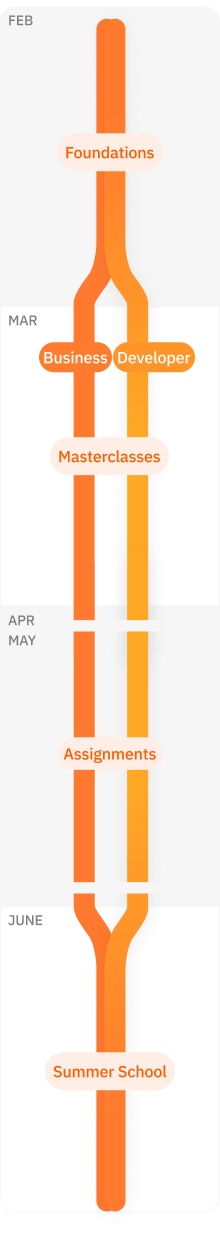
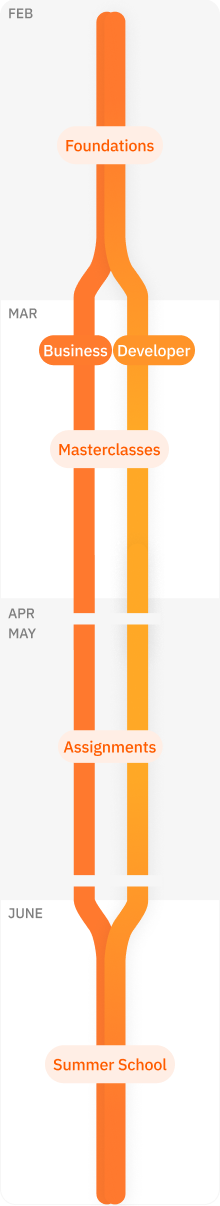
feat: programs page ui update 2

diff --git a/apps/web/src/routes/$lang/_content/programs/index.tsx b/apps/web/src/routes/$lang/_content/programs/index.tsx
@@ -9,6 +9,7 @@ import { createFileRoute, Link } from '@tanstack/react-router';
 import { useContext, useState } from 'react';
 import { useTranslation } from 'react-i18next';
 import { TbChevronDown } from 'react-icons/tb';
+import ReactPlayer from 'react-player';
 import avatarImage from '#src/assets/programs/avatar.png';
 import avatar2Image from '#src/assets/programs/avatar2.png';
 import avatar3Image from '#src/assets/programs/avatar3.png';
@@ -23,9 +24,8 @@ import trackTriangleImage from '#src/assets/programs/track-triangle.png';
 import track1Image from '#src/assets/programs/track1.webp';
 import track2Image from '#src/assets/programs/track2.webp';
 import track3Image from '#src/assets/programs/track3.webp';
-import track4Image from '#src/assets/programs/track4.webp';
-import videoScreenshotImage from '#src/assets/programs/video-screenshot.png';
 import { PageLayout } from '#src/components/page-layout.tsx';
+import { useGreater } from '#src/hooks/use-greater.ts';
 import { useSmaller } from '#src/hooks/use-smaller.ts';
 import { CourseCardBig } from '#src/patterns/course-card-big.tsx';
 import { AppContext } from '#src/providers/context.tsx';
@@ -104,12 +104,12 @@ function ProgramElement({
 }) {
   return (
     <div className="flex flex-row gap-3 items-center">
-      <div className="flex items-center justify-center bg-orange-50 rounded-full p-4">
-        <img className="size-8" src={icon} alt="" />
+      <div className="min-w-12 flex items-center justify-center bg-orange-50 rounded-full">
+        <img className="size-8 m-4" src={icon} alt="" />
       </div>
-      <div>
-        <p className="title-base text-orange-500">{title}</p>
-        <p className="body-base">{description}</p>
+      <div className="w-full">
+        <p className="label-strong md:title-base text-orange-500">{title}</p>
+        <p className="body-small mg:body-base">{description}</p>
       </div>
     </div>
   );
@@ -126,7 +126,7 @@ function TracksAndCalendar() {
           {' '}
           combines theory, real-case practice and networking{' '}
         </span>
-        opportunities. Choose your specialized track.
+        opportunities.
       </p>
 
       <div className="flex flex-row gap-2 mt-10">
@@ -140,7 +140,7 @@ function TracksAndCalendar() {
             location2="Online"
             contentText="The program starts with lectures led by Giacomo Zucco. Thanks to his characteristic style, you will develop in one month a deep understanding of Bitcoin relevancy and implications."
             imageUrl={track1Image}
-            imageClassName="xl:w-[322px]"
+            imageClassName="xl:w-[330px]"
           />
           <CalendarElement
             title="Masterclasses"
@@ -150,7 +150,7 @@ function TracksAndCalendar() {
             location2="Online"
             contentText="The Plan ₿ Program brings together a distinguished group of professors and industry leaders — each an expert in their field. Through live, expert-led sessions, you’ll gain direct access to some of the most influential minds shaping the Bitcoin ecosystem."
             imageUrl={track2Image}
-            imageClassName="xl:w-[322px]"
+            imageClassName="xl:w-[310px]"
           />
           <CalendarElement
             title="Project Assignments"
@@ -159,6 +159,7 @@ function TracksAndCalendar() {
             location1="Online"
             contentText="The best 100 students of each track will be able to choose an assignment associated with either a Bitcoin company or open-source project. This is your chance to be mentored directly by a professional. Assignments are individual work."
             imageUrl={track3Image}
+            imageClassName="xl:w-[360px]"
           />
           <CalendarElement
             title="Summer School"
@@ -166,7 +167,7 @@ function TracksAndCalendar() {
             date="June"
             location1="Lugano, Switzerland"
             contentText="The 21 best-ranked students of each track will be selected to join the Lugano Summer School. This 2-week intensive bootcamp blends expert-led workshops, and practical applications of Bitcoin businesses. Beyond the classroom, it's a career-defining experience, a chance to connect directly with industry leaders, showcase your skills, and open doors to future opportunities."
-            imageUrl={track4Image}
+            videoUrl="https://www.youtube.com/embed/7kaMQsDBlfE"
           />
         </div>
       </div>
@@ -183,6 +184,7 @@ function CalendarElement({
   location2,
   contentText,
   imageUrl,
+  videoUrl,
   imageClassName,
 }: {
   title: string;
@@ -191,9 +193,12 @@ function CalendarElement({
   location1: string;
   location2?: string;
   contentText: string;
-  imageUrl: string;
+  imageUrl?: string;
+  videoUrl?: string;
   imageClassName?: string;
 }) {
+  const isBig = useGreater('xl');
+
   return (
     <div className="flex flex-row">
       <img
@@ -203,16 +208,16 @@ function CalendarElement({
       />
 
       <div className="w-auto bg-orange-50 rounded-xl px-2 pt-3">
-        <div className="flex flex-row justify-between pb-3">
+        <div className="flex flex-col md:flex-row justify-between pb-3">
           <div className="flex flex-col text-orange-500">
-            <p className="title-medium">{title}</p>
+            <p className="title-base md:title-medium">{title}</p>
             <p className="label">{subtitle}</p>
           </div>
-          <div className="flex flex-col body-base text-neutral-500 items-end">
+          <div className="flex flex-row md:flex-col max-md:justify-between max-md:px-2 max-md:mt-2 md:self-center gap-2 body-small md:body-base text-neutral-500 md:items-end">
             <p>{date}</p>
-            <div>
+            <div className="">
               {location2 ? (
-                <span className="border-r border-orange-100 pr-2">
+                <span className="border-r border-neutral-100-100 pr-2">
                   {location2}
                 </span>
               ) : null}
@@ -221,12 +226,38 @@ function CalendarElement({
           </div>
         </div>
         <div className="flex flex-col xl:flex-row bg-white mb-2 p-3 rounded-xl gap-3">
-          <p className="text-orange-800 text-sm">{contentText}</p>
-          <img
-            className={cn(imageClassName, 'object-cover rounded-xl')}
-            src={imageUrl}
-            alt=""
-          />
+          <p className="text-orange-800 body-base md:text-sm">{contentText}</p>
+          {imageUrl ? (
+            <img
+              className={cn(imageClassName, 'object-cover rounded-xl')}
+              src={imageUrl}
+              alt=""
+            />
+          ) : null}
+          {videoUrl ? (
+            isBig ? (
+              <div className={cn(imageClassName)}>
+                <ReactPlayer
+                  height={'180px'}
+                  width={'350px'}
+                  className="mb-2 rounded-lg"
+                  controls={true}
+                  src={videoUrl}
+                />
+              </div>
+            ) : (
+              <div className="relative pt-[56.25%] mt-6">
+                <ReactPlayer
+                  height={'100%'}
+                  width={'100%'}
+                  style={{ left: 0, position: 'absolute', top: 0 }}
+                  className="mb-2 rounded-lg"
+                  controls={true}
+                  src={videoUrl}
+                />
+              </div>
+            )
+          ) : null}
         </div>
       </div>
     </div>
@@ -249,7 +280,7 @@ function ChooseYourTrack() {
     <div>
       <SectionTitle title="Choose your track and enroll" />
 
-      <div className="flex flex-wrap gap-4 lg:gap-8 mt-2 lg:mt-4 px-2 lg:px-6 pb-2 lg:pb-6">
+      <div className="flex flex-wrap gap-4 lg:gap-8 mt-2 lg:mt-4">
         {planbCourses.map((course) => (
           <div key={course.id} className="w-full">
             <CourseCardBig course={course} />
@@ -263,16 +294,18 @@ function ChooseYourTrack() {
 function EarnDiploma() {
   return (
     <div>
-      <div className="flex flex-row">
-        <div className="flex flex-col gap-4">
-          <SectionTitle title="Earn a Bitcoin Diploma trusted by top Bitcoin companies" />
+      <SectionTitle title="Earn a Bitcoin Diploma trusted by top Bitcoin companies" />
+      <div className="flex flex-col md:flex-row mt-6 gap-8 text-lg">
+        <div className="flex flex-col gap-4 md:w-2/3">
           <p>
             The top-performing students selected for the Summer School in Lugano
-            earn an official, physical Plan ₿ Diploma, a distinction that
-            recognizes not only their academic excellence but also their proven,
-            hands-on performance throughout the program. This diploma is a
-            trusted signal of practical skills, professional discipline, and
-            real-world contribution to Bitcoin projects.
+            earn an official, physical Plan ₿ Diploma,{' '}
+            <b>
+              a distinction that recognizes not only their academic excellence
+            </b>{' '}
+            but also their proven, hands-on performance throughout the program.
+            This diploma is a trusted signal of practical skills, professional
+            discipline, and real-world contribution to Bitcoin projects.
           </p>
           <p>
             From last year's cohort of 21 graduates, more than 13 have already
@@ -280,7 +313,7 @@ function EarnDiploma() {
             into their first major step into the industry.
           </p>
         </div>
-        <img className="w-1/2 h-fit self-center" src={diplomaImage} alt="" />
+        <img className="h-fit self-center md:w-1/3" src={diplomaImage} alt="" />
       </div>
     </div>
   );
@@ -290,13 +323,16 @@ function HearStudents() {
   return (
     <div>
       <SectionTitle title="Hear from students who became teachers: Mari and Birk's stories" />
-      <Link
-        to="https://x.com/planb_network/status/1947706959790018860?s=20"
-        target="_blank"
-        rel="noreferrer"
-      >
-        <img className="mt-4" src={videoScreenshotImage} alt="" />
-      </Link>
+      <div className="relative pt-[56.25%] mt-6">
+        <ReactPlayer
+          height={'100%'}
+          width={'100%'}
+          style={{ left: 0, position: 'absolute', top: 0 }}
+          className="mb-2 rounded-lg"
+          controls={true}
+          src={'https://www.youtube.com/embed/50p92rsqAG4'}
+        />
+      </div>
     </div>
   );
 }
@@ -310,7 +346,7 @@ function Feedbacks() {
       <div className="flex flex-col gap-6">
         <SectionTitle title="What students think about the program" />
         <div className={cn(divClassName, 'self-end')}>
-          <p className={cn(commentClassName, 'md:w-[740px] self-end')}>
+          <p className={cn(commentClassName, 'md:max-w-[740px] self-end')}>
             “This experience has been{' '}
             <span className="font-medium">truly transformative</span>. I pushed
             myself in ways I hadn't before — building a real-world proposal,
@@ -324,7 +360,7 @@ function Feedbacks() {
           />
         </div>
         <div className={cn(divClassName, 'self-start')}>
-          <p className={cn(commentClassName, 'md:w-[640px] self-start')}>
+          <p className={cn(commentClassName, 'md:max-w-[640px] self-start')}>
             “Plan ₿ Biz School 2025 has been{' '}
             <span className="font-medium">a mind blowing experience</span>,
             learned a lot. The speakers have been{' '}
@@ -336,7 +372,7 @@ function Feedbacks() {
           <FeedbackUser name="Luis Escobar" imageUrl={avatarImage} />
         </div>
         <div className={cn(divClassName, 'self-end')}>
-          <p className={cn(commentClassName, 'md:w-[740px] self-end')}>
+          <p className={cn(commentClassName, 'md:max-w-[740px] self-end')}>
             “<span className="font-medium">A top-level course</span>, enriched
             by outstanding guest lectures: having the chance to interact
             directly with some of the{' '}
@@ -352,7 +388,7 @@ function Feedbacks() {
           <FeedbackUser name="Beatrice Sofia Fiori" imageUrl={avatarImage} />
         </div>
         <div className={cn(divClassName, 'self-start')}>
-          <p className={cn(commentClassName, 'md:w-[640px] self-start')}>
+          <p className={cn(commentClassName, 'md:max-w-[640px] self-start')}>
             “I just completed Plan ₿ Biz School 2025 and it was truly excellent.
             The course content is well-structured, practical, and taught by true
             industry leaders. Whether you're new to Bitcoin or already in the
@@ -362,7 +398,7 @@ function Feedbacks() {
           <FeedbackUser name="Jose Saenz" imageUrl={avatarImage} />
         </div>
         <div className={cn(divClassName, 'self-end')}>
-          <p className={cn(commentClassName, 'md:w-[740px] self-end')}>
+          <p className={cn(commentClassName, 'md:max--[740px] self-end')}>
             Thanks for{' '}
             <span className="font-medium">
               excellent teachers and content provided
@@ -431,7 +467,9 @@ function FAQ() {
 }
 
 function SectionTitle({ title }: { title: string }) {
-  return <h2 className="title-large mt-9">{title}</h2>;
+  return (
+    <h2 className="display-small md:title-large mt-8 md:mt-14">{title}</h2>
+  );
 }
 
 function FAQQuestion({
@@ -467,7 +505,7 @@ function EnrollNow() {
     <div>
       {!isOpened ? (
         <Button
-          className="justify-self-center mt-6 w-2/5"
+          className="mt-6 mx-auto w-full md:w-2/5"
           onClick={() => {
             setIsOpened(!isOpened);
           }}
@@ -477,7 +515,7 @@ function EnrollNow() {
         </Button>
       ) : null}
       {isOpened ? (
-        <div className="flex flex-row gap-1 w-full mt-6">
+        <div className="flex flex-col md:flex-row gap-1 w-full mt-6">
           <Link
             to="/courses/plan-developer-program-0be6cfae-9d32-11f0-9601-0f79f5ccc576"
             className="w-full"
